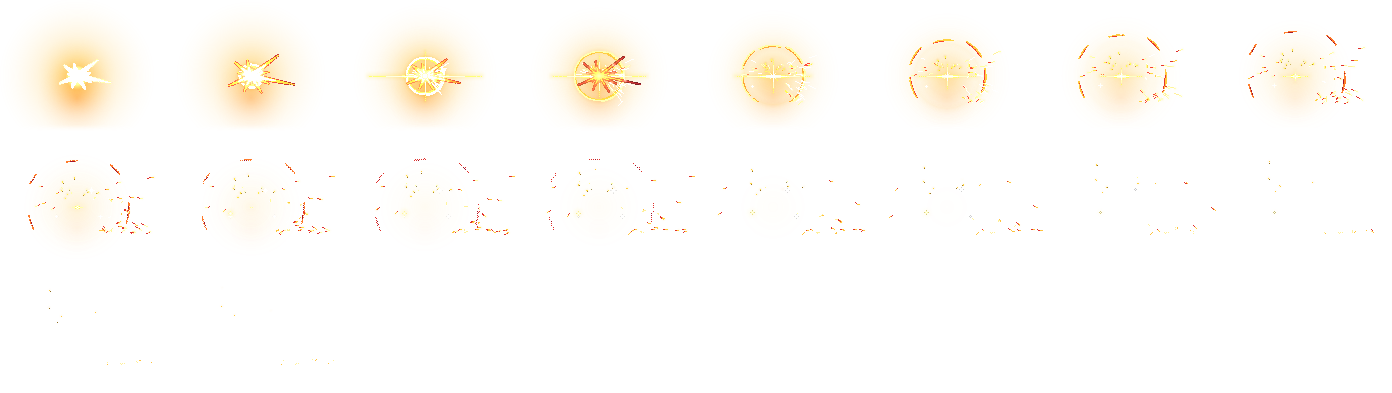
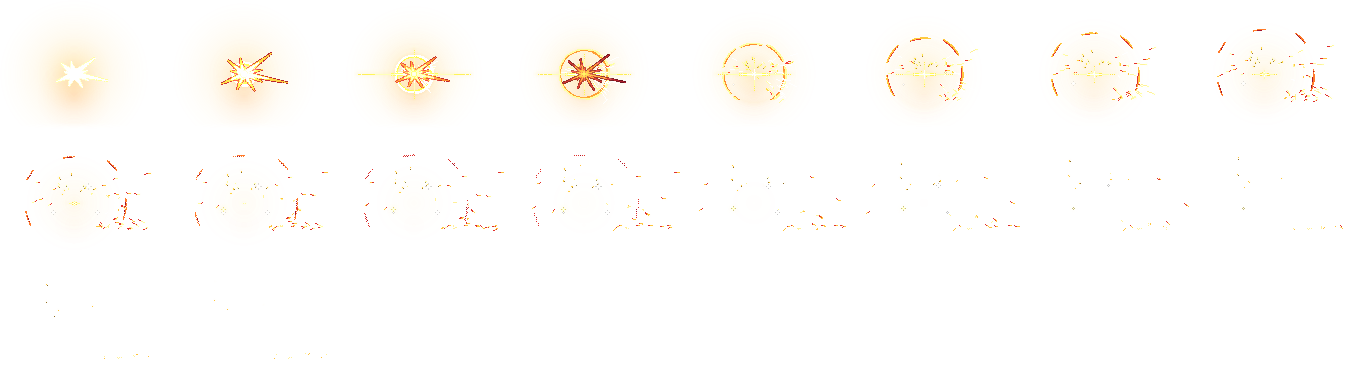
Battle effects at 2x with less baked glow
- Effects draw at least 2 screen px per effect pixel (FX_PIXEL); runes, ground fire, heal ring and the
  Asteria coin blast keep 1x via px
- Sheets re-rendered with glow 0.45 (lightning keeps 1); kill puff uses a dark dust palette
- The four most common sheets (hit spark, crit, puff, violet burst) are now in tools/pfx_sheets.mjs

diff --git a/js/data/fx_sheets.js b/js/data/fx_sheets.js
@@ -2,49 +2,53 @@
 // 열쇠는 코드가 부르는 효과 이름이다(이전 효과 그림의 이름을 그대로 쓴다). 그림은 assets/fx/<image>.png, 한 줄에 cols칸씩 왼쪽 위부터 채운다.
 // pivot은 Fx.anim에 넘긴 좌표가 닿는 그림 속 점, life는 재생 길이(초), fit은 화면 1배로 그리는 기준 size(화면 px)다.
 // loop가 true면 상태 표시처럼 Game.time에 맞춰 반복해 그린다(Render.drawLoopSheet). shot이 true면 투사체 그림이다(날아가는 방향으로 돌린다)
+// 효과 픽셀 하나를 화면 몇 px 이상으로 그리는가. pixelfx 효과는 작은 캐릭터 기준이라 몬스터(키 76px 안팎) 옆에서는 2배라야 또렷하다.
+// 시트마다 px로 바꿀 수 있다(바닥에 깔리는 룬과 장판, 해상도가 높은 Asteria 그림은 1)
+const FX_PIXEL = 2;
+
 const FX_SHEETS = {
     // add: 검은 바탕 그림이라 빛을 더해(lighter) 그린다
     // 정예와 보스 처치: Asteria 해적 선장의 동전 폭발(tools/import_asteria_gold.py)
-    fx_coin_blast: { image: 'pfx_coin_blast', w: 128, h: 128, cols: 8, frames: 8, pivotX: 64, pivotY: 64, life: 0.6, fit: 128, add: true },
+    fx_coin_blast: { image: 'pfx_coin_blast', w: 128, h: 128, cols: 8, frames: 8, pivotX: 64, pivotY: 64, life: 0.6, fit: 128, add: true, px: 1 },
     // 정예 용사 오라: Asteria 모험가 오라 그대로(tools/import_asteria_heroes.py). 몸 뒤에서 돈다
     fx_aura_elite_swordsman: { image: 'pfx_aura_nightExecutioner', w: 128, h: 128, cols: 8, frames: 8, pivotX: 64, pivotY: 64, life: 0.8, fit: 128, loop: true },
     fx_aura_elite_tamer: { image: 'pfx_aura_mistBlade', w: 128, h: 128, cols: 8, frames: 8, pivotX: 64, pivotY: 64, life: 0.8, fit: 128, loop: true },
     fx_aura_elite_stormcaller: { image: 'pfx_aura_thunderSage', w: 128, h: 128, cols: 8, frames: 8, pivotX: 64, pivotY: 64, life: 0.8, fit: 128, loop: true },
     fx_aura_elite_rhapsodist: { image: 'pfx_aura_sunMoonDance', w: 128, h: 128, cols: 8, frames: 8, pivotX: 64, pivotY: 64, life: 0.8, fit: 128, loop: true },
-    fx_hit_physical: { image: 'pfx_hit_spark', w: 122, h: 71, cols: 8, frames: 15, pivotX: 34, pivotY: 36, life: 0.5, fit: 110 }, // impacts/hit-spark
-    fx_hit_crit: { image: 'pfx_crit_hit', w: 174, h: 131, cols: 8, frames: 18, pivotX: 77, pivotY: 76, life: 0.6, fit: 150 }, // impacts/crit-hit
-    fx_explosion: { image: 'pfx_poof', w: 91, h: 76, cols: 8, frames: 18, pivotX: 43, pivotY: 40, life: 0.6, fit: 100 }, // spawn/poof
-    fx_blastViolet: { image: 'pfx_mana_burst', w: 170, h: 146, cols: 8, frames: 16, pivotX: 85, pivotY: 93, life: 0.533, fit: 180 }, // arcane/mana-burst
+    fx_hit_physical: { image: 'pfx_hit_spark', w: 119, h: 70, cols: 8, frames: 15, pivotX: 32, pivotY: 56, life: 0.5, fit: 110 }, // impacts/hit-spark
+    fx_hit_crit: { image: 'pfx_crit_hit', w: 170, h: 129, cols: 8, frames: 18, pivotX: 74, pivotY: 100, life: 0.6, fit: 150 }, // impacts/crit-hit
+    fx_explosion: { image: 'pfx_poof', w: 86, h: 75, cols: 8, frames: 18, pivotX: 39, pivotY: 64, life: 0.6, fit: 100 }, // spawn/poof
+    fx_blastViolet: { image: 'pfx_mana_burst', w: 167, h: 145, cols: 8, frames: 16, pivotX: 85, pivotY: 92, life: 0.533, fit: 180 }, // arcane/mana-burst
     // 이전 효과 그림을 바꾼 것
     fx_hit_lightning: { image: 'pfx_zap_hit', w: 129, h: 104, cols: 8, frames: 14, pivotX: 75, pivotY: 52, life: 0.45, fit: 130 }, // lightning/zap-hit
-    fx_hit_fire: { image: 'pfx_fire_blast', w: 206, h: 190, cols: 8, frames: 20, pivotX: 108, pivotY: 95, life: 0.7, fit: 200 }, // explosions/plasma-explosion(불 팔레트)
-    fx_blastGold: { image: 'pfx_gold_burst', w: 170, h: 146, cols: 8, frames: 16, pivotX: 85, pivotY: 93, life: 0.6, fit: 180 }, // arcane/mana-burst(금색)
-    fx_blastCyan: { image: 'pfx_cyan_burst', w: 170, h: 146, cols: 8, frames: 16, pivotX: 85, pivotY: 93, life: 0.5, fit: 180 }, // arcane/mana-burst(청록)
-    fx_blastPink: { image: 'pfx_roar', w: 151, h: 114, cols: 8, frames: 20, pivotX: 76, pivotY: 63, life: 0.9, fit: 150 }, // scifi/emp-blast(분홍)
+    fx_hit_fire: { image: 'pfx_fire_blast', w: 200, h: 190, cols: 8, frames: 20, pivotX: 102, pivotY: 95, life: 0.7, fit: 200 }, // explosions/plasma-explosion(불 팔레트)
+    fx_blastGold: { image: 'pfx_gold_burst', w: 167, h: 145, cols: 8, frames: 16, pivotX: 85, pivotY: 92, life: 0.6, fit: 180 }, // arcane/mana-burst(금색)
+    fx_blastCyan: { image: 'pfx_cyan_burst', w: 167, h: 145, cols: 8, frames: 16, pivotX: 85, pivotY: 92, life: 0.5, fit: 180 }, // arcane/mana-burst(청록)
+    fx_blastPink: { image: 'pfx_roar', w: 151, h: 112, cols: 8, frames: 20, pivotX: 76, pivotY: 62, life: 0.9, fit: 150 }, // scifi/emp-blast(분홍)
     fx_adv_arcanist_lightning: { image: 'pfx_lightning_strike', w: 231, h: 262, cols: 8, frames: 19, pivotX: 115, pivotY: 227, life: 0.8, fit: 300 }, // lightning/lightning-strike
     fx_adv_arcanist_thunderGod: { image: 'pfx_thunderclap', w: 254, h: 151, cols: 8, frames: 23, pivotX: 128, pivotY: 110, life: 0.9, fit: 254 }, // lightning/thunderclap
-    fx_adv_doomMelody_requiem: { image: 'pfx_soul_rise', w: 88, h: 114, cols: 8, frames: 20, pivotX: 44, pivotY: 101, life: 0.9, fit: 120 }, // spawn/soul-rise(보라)
+    fx_adv_doomMelody_requiem: { image: 'pfx_soul_rise', w: 84, h: 113, cols: 8, frames: 20, pivotX: 42, pivotY: 100, life: 0.9, fit: 120 }, // spawn/soul-rise(보라)
     // 투사체(pivot은 앞 끝)
-    fx_arrowPoison: { image: 'pfx_arrow', w: 94, h: 18, cols: 8, frames: 9, pivotX: 88, pivotY: 10, life: 0.3, fit: 90, shot: true }, // projectiles/arrow
-    fx_arrowBig: { image: 'pfx_arrow', w: 94, h: 18, cols: 8, frames: 9, pivotX: 88, pivotY: 10, life: 0.3, fit: 90, shot: true }, // 같은 화살을 2배로
-    fx_shot_curse: { image: 'pfx_arrow_curse', w: 94, h: 18, cols: 8, frames: 9, pivotX: 88, pivotY: 10, life: 0.3, fit: 90, shot: true }, // projectiles/arrow(보라)
-    fx_shot_fire: { image: 'pfx_fireball', w: 117, h: 54, cols: 8, frames: 12, pivotX: 94, pivotY: 27, life: 0.6, fit: 110, shot: true }, // fire/fireball
-    fx_shot_blood: { image: 'pfx_bloodball', w: 117, h: 54, cols: 8, frames: 12, pivotX: 94, pivotY: 27, life: 0.6, fit: 110, shot: true }, // fire/fireball(핏빛)
-    fx_shot_ice: { image: 'pfx_ice_lance', w: 142, h: 50, cols: 8, frames: 12, pivotX: 129, pivotY: 25, life: 0.4, fit: 130, shot: true }, // ice/ice-lance
-    fx_shot_axe: { image: 'pfx_axe', w: 97, h: 48, cols: 8, frames: 15, pivotX: 72, pivotY: 24, life: 0.5, fit: 90, shot: true }, // projectiles/energy-disc(강철)
-    fx_shot_jester: { image: 'pfx_jester_disc', w: 97, h: 48, cols: 8, frames: 15, pivotX: 72, pivotY: 24, life: 0.5, fit: 90, shot: true }, // projectiles/energy-disc(분홍)
+    fx_arrowPoison: { image: 'pfx_arrow', w: 93, h: 16, cols: 8, frames: 9, pivotX: 88, pivotY: 9, life: 0.3, fit: 90, shot: true }, // projectiles/arrow
+    fx_arrowBig: { image: 'pfx_arrow', w: 93, h: 16, cols: 8, frames: 9, pivotX: 88, pivotY: 9, life: 0.3, fit: 90, shot: true }, // 같은 화살을 2배로
+    fx_shot_curse: { image: 'pfx_arrow_curse', w: 93, h: 16, cols: 8, frames: 9, pivotX: 88, pivotY: 9, life: 0.3, fit: 90, shot: true }, // projectiles/arrow(보라)
+    fx_shot_fire: { image: 'pfx_fireball', w: 117, h: 53, cols: 8, frames: 12, pivotX: 94, pivotY: 26, life: 0.6, fit: 110, shot: true }, // fire/fireball
+    fx_shot_blood: { image: 'pfx_bloodball', w: 117, h: 53, cols: 8, frames: 12, pivotX: 94, pivotY: 26, life: 0.6, fit: 110, shot: true }, // fire/fireball(핏빛)
+    fx_shot_ice: { image: 'pfx_ice_lance', w: 142, h: 44, cols: 8, frames: 12, pivotX: 129, pivotY: 22, life: 0.4, fit: 130, shot: true }, // ice/ice-lance
+    fx_shot_axe: { image: 'pfx_axe', w: 96, h: 48, cols: 8, frames: 15, pivotX: 72, pivotY: 24, life: 0.5, fit: 90, shot: true }, // projectiles/energy-disc(강철)
+    fx_shot_jester: { image: 'pfx_jester_disc', w: 96, h: 48, cols: 8, frames: 15, pivotX: 72, pivotY: 24, life: 0.5, fit: 90, shot: true }, // projectiles/energy-disc(분홍)
     // 몬스터 능력
-    fx_burning: { image: 'pfx_burning', w: 78, h: 100, cols: 8, frames: 15, pivotX: 39, pivotY: 71, life: 1.5, fit: 100, loop: true }, // fire/spirit-flame(불)
-    fx_fire_ground: { image: 'pfx_fire_ground', w: 162, h: 122, cols: 8, frames: 8, pivotX: 81, pivotY: 87, life: 0.8, fit: 160, loop: true }, // fire/fire-ring
-    fx_snowflake: { image: 'pfx_snowflake', w: 126, h: 115, cols: 8, frames: 20, pivotX: 63, pivotY: 74, life: 0.8, fit: 130 }, // ice/snowflake-burst
-    fx_stunned: { image: 'pfx_stunned', w: 50, h: 39, cols: 8, frames: 15, pivotX: 24, pivotY: 20, life: 1, fit: 50, loop: true }, // status/stunned
-    fx_heal: { image: 'pfx_heal', w: 77, h: 88, cols: 8, frames: 19, pivotX: 36, pivotY: 51, life: 0.7, fit: 80 }, // pickups/collect-burst(초록)
-    fx_lifesteal: { image: 'pfx_lifesteal', w: 77, h: 88, cols: 8, frames: 19, pivotX: 36, pivotY: 51, life: 0.6, fit: 80 }, // pickups/collect-burst(붉은)
-    fx_gold: { image: 'pfx_gold', w: 77, h: 88, cols: 8, frames: 19, pivotX: 36, pivotY: 51, life: 0.8, fit: 80 }, // pickups/collect-burst(금색)
-    fx_heal_aoe: { image: 'pfx_heal_aoe', w: 234, h: 117, cols: 8, frames: 22, pivotX: 117, pivotY: 86, life: 1.2, fit: 230 }, // holy/heal-aoe
-    fx_rune_heal: { image: 'pfx_rune_heal', w: 118, h: 95, cols: 8, frames: 15, pivotX: 59, pivotY: 75, life: 4, fit: 120, loop: true }, // arcane/rune-circle(초록)
-    fx_rune_damage: { image: 'pfx_rune_damage', w: 118, h: 95, cols: 8, frames: 15, pivotX: 59, pivotY: 75, life: 4, fit: 120, loop: true }, // arcane/rune-circle(붉은)
-    fx_rune_attackSpeed: { image: 'pfx_rune_speed', w: 118, h: 96, cols: 8, frames: 15, pivotX: 59, pivotY: 76, life: 4, fit: 120, loop: true }, // arcane/rune-circle(노랑)
-    fx_cleave: { image: 'pfx_cleave', w: 183, h: 101, cols: 8, frames: 23, pivotX: 79, pivotY: 82, life: 0.5, fit: 180 }, // melee/spin-slash(주황)
-    fx_thorns: { image: 'pfx_thorns', w: 203, h: 77, cols: 8, frames: 20, pivotX: 100, pivotY: 64, life: 0.8, fit: 200 } // nature/thorns
+    fx_burning: { image: 'pfx_burning', w: 76, h: 98, cols: 8, frames: 15, pivotX: 38, pivotY: 70, life: 1.5, fit: 100, loop: true }, // fire/spirit-flame(불)
+    fx_fire_ground: { image: 'pfx_fire_ground', w: 152, h: 117, cols: 8, frames: 8, pivotX: 76, pivotY: 82, life: 0.8, fit: 160, loop: true, px: 1 }, // fire/fire-ring
+    fx_snowflake: { image: 'pfx_snowflake', w: 120, h: 113, cols: 8, frames: 20, pivotX: 60, pivotY: 73, life: 0.8, fit: 130 }, // ice/snowflake-burst
+    fx_stunned: { image: 'pfx_stunned', w: 50, h: 37, cols: 8, frames: 15, pivotX: 24, pivotY: 55, life: 1, fit: 50, loop: true }, // status/stunned
+    fx_heal: { image: 'pfx_heal', w: 77, h: 87, cols: 8, frames: 19, pivotX: 36, pivotY: 51, life: 0.7, fit: 80 }, // pickups/collect-burst(초록)
+    fx_lifesteal: { image: 'pfx_lifesteal', w: 77, h: 87, cols: 8, frames: 19, pivotX: 36, pivotY: 51, life: 0.6, fit: 80 }, // pickups/collect-burst(붉은)
+    fx_gold: { image: 'pfx_gold', w: 77, h: 87, cols: 8, frames: 19, pivotX: 36, pivotY: 51, life: 0.8, fit: 80 }, // pickups/collect-burst(금색)
+    fx_heal_aoe: { image: 'pfx_heal_aoe', w: 232, h: 114, cols: 8, frames: 22, pivotX: 116, pivotY: 83, life: 1.2, fit: 230, px: 1 }, // holy/heal-aoe
+    fx_rune_heal: { image: 'pfx_rune_heal', w: 116, h: 89, cols: 8, frames: 15, pivotX: 58, pivotY: 70, life: 4, fit: 120, loop: true, px: 1 }, // arcane/rune-circle(초록)
+    fx_rune_damage: { image: 'pfx_rune_damage', w: 116, h: 89, cols: 8, frames: 15, pivotX: 58, pivotY: 70, life: 4, fit: 120, loop: true, px: 1 }, // arcane/rune-circle(붉은)
+    fx_rune_attackSpeed: { image: 'pfx_rune_speed', w: 116, h: 90, cols: 8, frames: 15, pivotX: 58, pivotY: 71, life: 4, fit: 120, loop: true, px: 1 }, // arcane/rune-circle(노랑)
+    fx_cleave: { image: 'pfx_cleave', w: 183, h: 99, cols: 8, frames: 23, pivotX: 79, pivotY: 80, life: 0.5, fit: 180 }, // melee/spin-slash(주황)
+    fx_thorns: { image: 'pfx_thorns', w: 203, h: 76, cols: 8, frames: 20, pivotX: 26, pivotY: 63, life: 0.8, fit: 200 } // nature/thorns
 };

diff --git a/js/game/render.js b/js/game/render.js
@@ -1670,7 +1670,7 @@ const Render = {
         const img = sheet && Assets.get(sheet.image);
         if (!img) return;
         const f = clamp(frame, 0, sheet.frames - 1);
-        const s = Math.max(1, Math.round(size * WORLD_ZOOM / sheet.fit)) / WORLD_ZOOM;
+        const s = Math.max(sheet.px || FX_PIXEL, Math.round(size * WORLD_ZOOM / sheet.fit)) / WORLD_ZOOM;
         ctx.save();
         ctx.imageSmoothingEnabled = false;
         if (alpha !== undefined) ctx.globalAlpha *= alpha;
@@ -1724,7 +1724,7 @@ const Render = {
             const img = sheet && Assets.get(sheet.image);
             if (!img) continue;
             const frame = Math.min(sheet.frames - 1, Math.floor(a.age / a.life * sheet.frames));
-            const k = Math.max(1, Math.round(a.size * WORLD_ZOOM / sheet.fit));
+            const k = Math.max(sheet.px || FX_PIXEL, Math.round(a.size * WORLD_ZOOM / sheet.fit));
             const s = k / WORLD_ZOOM;
             const x = Math.round((a.x - sheet.pivotX * s) * WORLD_ZOOM) / WORLD_ZOOM;
             const y = Math.round((a.y - sheet.pivotY * s) * WORLD_ZOOM) / WORLD_ZOOM;

diff --git a/docs/PIXELLAB_ASSETS.md b/docs/PIXELLAB_ASSETS.md
@@ -61,6 +61,9 @@ cute fantasy game unit, chunky readable silhouette, bright saturated colors, cle
 
 ## 전투 효과 (pixelfx)
 
+2026-11-08: pixelfx 효과는 작은 캐릭터 기준이라 몬스터(키 76px 안팎) 옆에서 1배로 쓰면 가늘고 흐려 보였다. 그래서 효과 픽셀 하나를 화면 2px 이상으로 그린다(`FX_PIXEL`, 시트마다 `px`로 바꿈. 룬, 장판, 회복 원, Asteria 동전 폭발은 1).
+시트를 뽑을 때 빛 세기를 0.45로 낮춘다(`tools/pfx_sheets.mjs`의 `GLOW`. 번개 셋은 1). 처치 연기는 흰색 없는 어두운 회보라 팔레트(`PAL.dust`)다.
+
 전투 효과는 모두 PixelLab이 아니라 pixelfx(https://github.com/patch-gg/pixelfx, MIT, 커밋 `a841596`)로 만든 시트를 쓴다. 표기는 `NOTICE.md`.
 
 | 옛 이름 | pixelfx id | 옵션 | 쓴 프레임 (30fps) | 재생 | 시트 |
